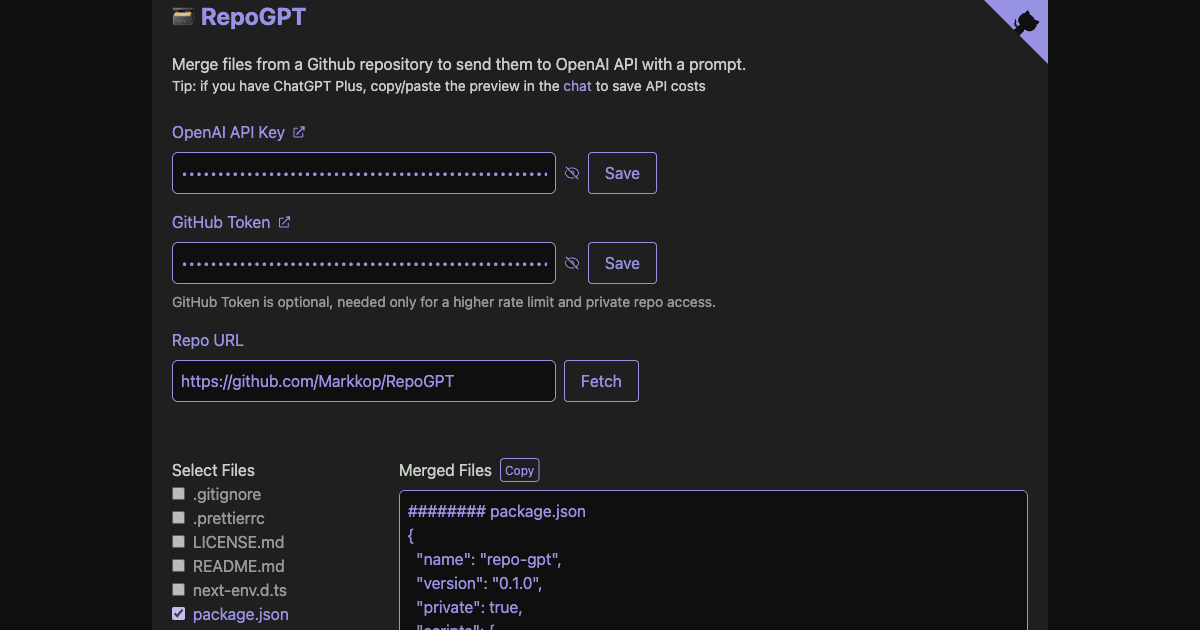
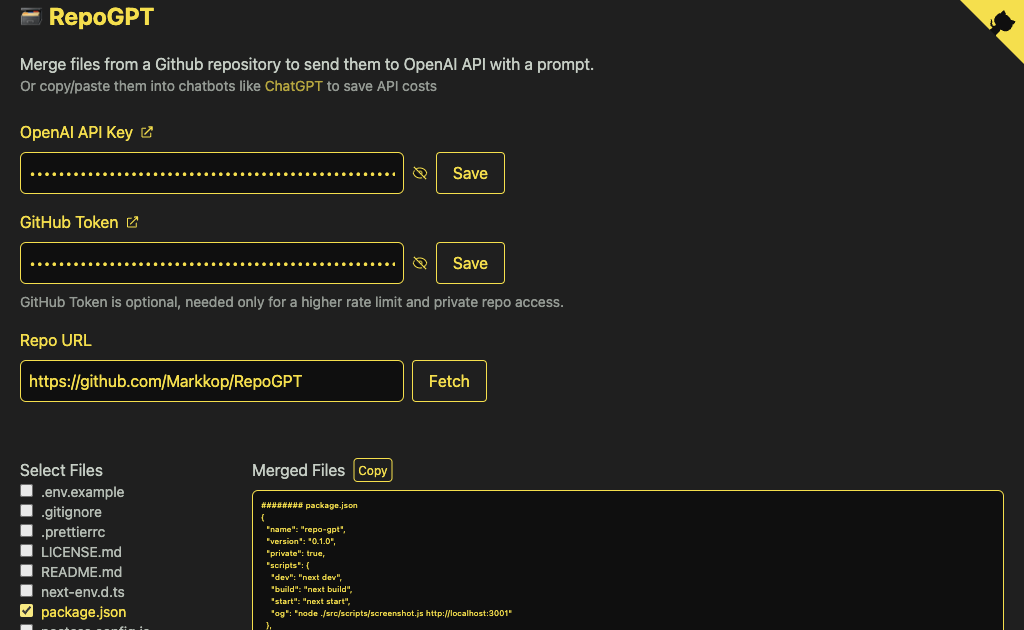
feat: update og image

diff --git a/src/scripts/screenshot.js b/src/scripts/screenshot.js
@@ -17,7 +17,7 @@ require('dotenv').config()
 
         // set the viewport size
         await page.setViewport({
-          width: 1200,
+          width: 1024,
           height: 630,
           deviceScaleFactor: 1
         })
@@ -39,9 +39,9 @@ require('dotenv').config()
         // wait
         await page.waitForSelector('input[type="checkbox"]')
 
-        // click on the 6th checkbox
+        // click on checkbox
         const checkboxes = await page.$$('input[type="checkbox"]')
-        await checkboxes[5].click()
+        await checkboxes[6].click()
 
         // wait
         await page.waitForNetworkIdle()

diff --git a/src/pages/index.tsx b/src/pages/index.tsx
@@ -178,7 +178,7 @@ export default function Home() {
 
   return (
     <main className="bg-background text-secondary">
-      <div className="bg-surface font-sans px-5 max-w-4xl mx-auto shadow-l-lg relative">
+      <div className="bg-surface font-sans px-5 max-w-5xl mx-auto shadow-l-lg relative">
         <GhRibbon />
         <h1 className="font-bold text-2xl mb-5 text-primary">🗃 RepoGPT</h1>
 
